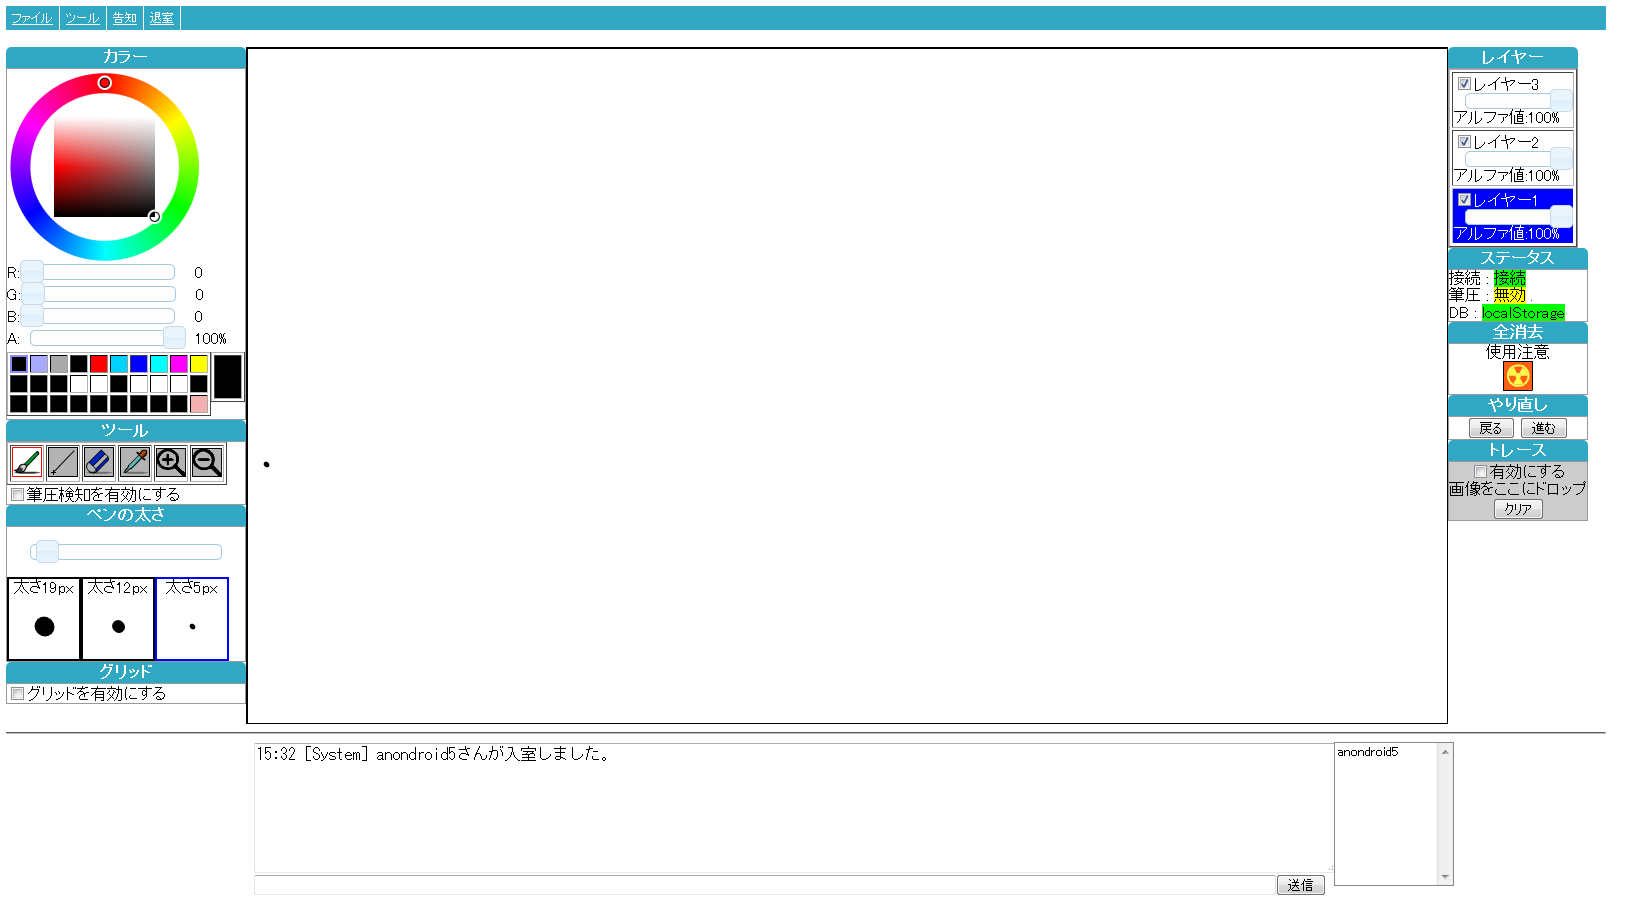
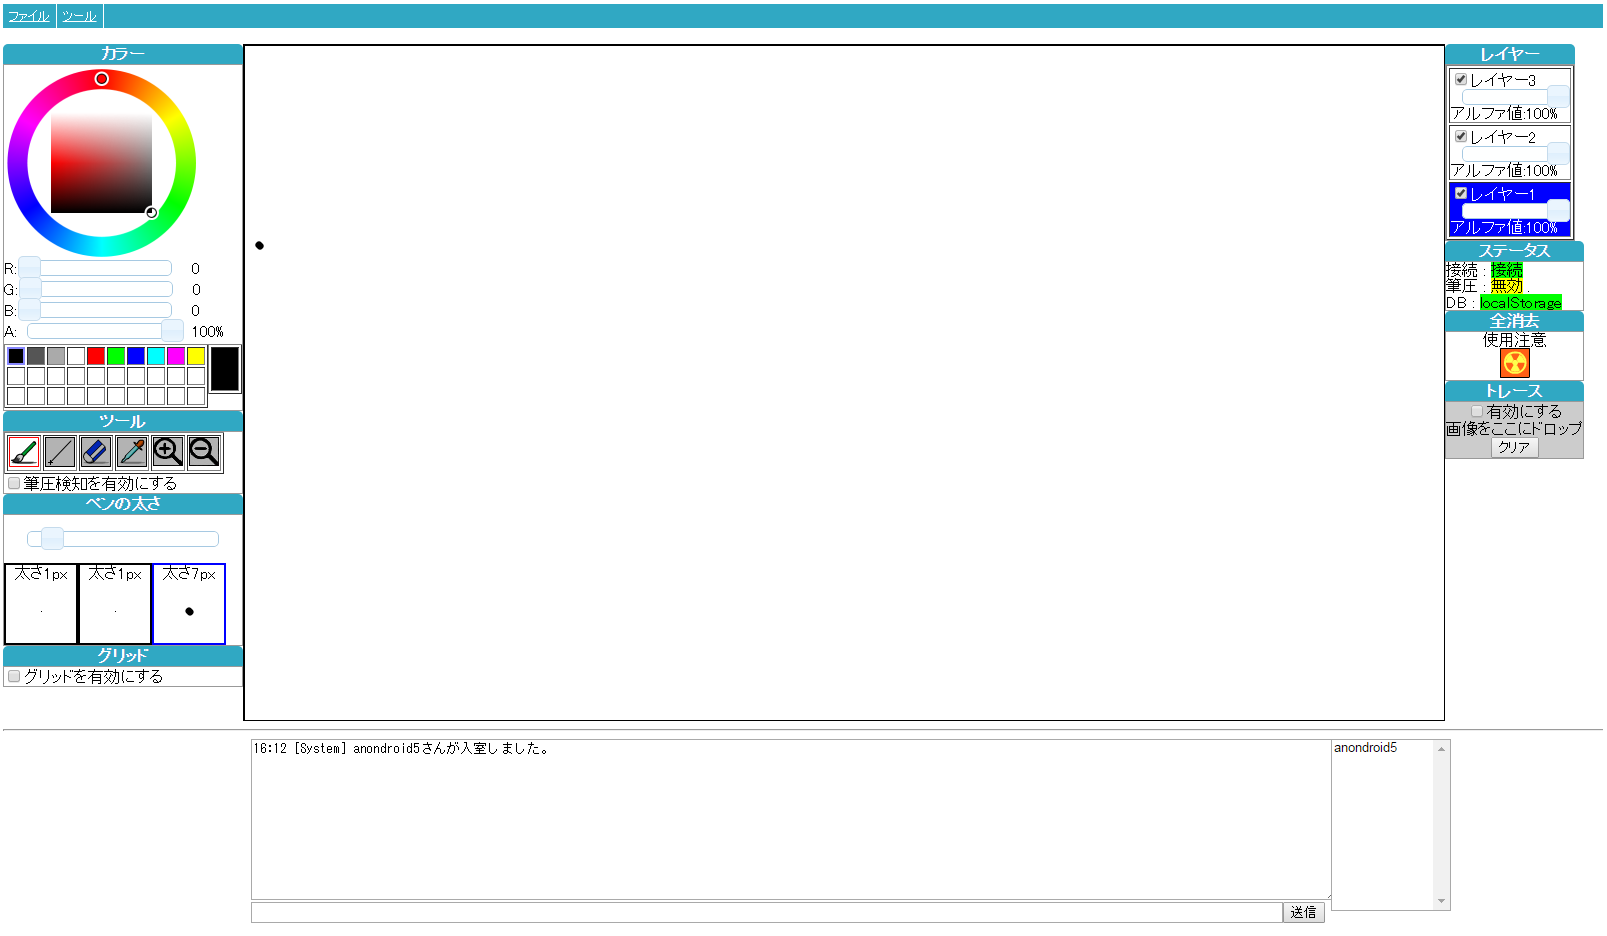
WebSocket

Changed region(s): [[0.0, 0.0, 1.0, 0.8299], [0.1556, 0.9528, 0.8401, 1.0], [0.8712, 0.9528, 0.9023, 0.9835]]

diff --git a/src/main/webapp/chat.html b/src/main/webapp/chat.html
@@ -106,17 +106,6 @@
 							<li><a href="#" id="menuBombButton">全消し</a></li>
 						</ul>
 					</li>
-					<li><a href="#">告知</a>
-						<ul>
-							<li><a href="#" id="menuTwitter">Twitterで告知する</a></li>
-							<li><a href="#" id="menuFacebook">Facebookで告知する</a></li>
-						</ul>
-					</li>
-					<li><a href="#">退室</a>
-						<ul>
-							<li><a href="#" id="menuLogout">退室する</a></li>
-						</ul>
-					</li>
 				</ul>
 			</div>
 		</nav>
@@ -215,14 +204,6 @@
 									使用注意<br>
 									<img id="bombButtonIcon" src="./icon/zenkesi.png" alt="bomb">
 									<div id="bombDialog" style="text-align:center;"></div>
-								</div>
-							</div>
-						</div>
-						<div id="undo">
-							<div class="titleBar">やり直し</div>
-							<div class="frame">
-								<div id="undoButton" style="text-align:center;">
-									<input type="submit" value="戻る" name="back"> <input type="submit" value="進む" name="proceed">
 								</div>
 							</div>
 						</div>

diff --git a/src/main/webapp/canvas.html b/src/main/webapp/canvas.html
@@ -1,7 +1,7 @@
 <!DOCTYPE html>
 <html lang="ja">
 <head>
-	<meta charset="UTF-8">
+	<meta charset="utf-8">
 	<title>Doodle</title>
    	<script src="./js/jquery-latest.min.js"></script>
 	<script src="./js/hammer.min.js"></script>
